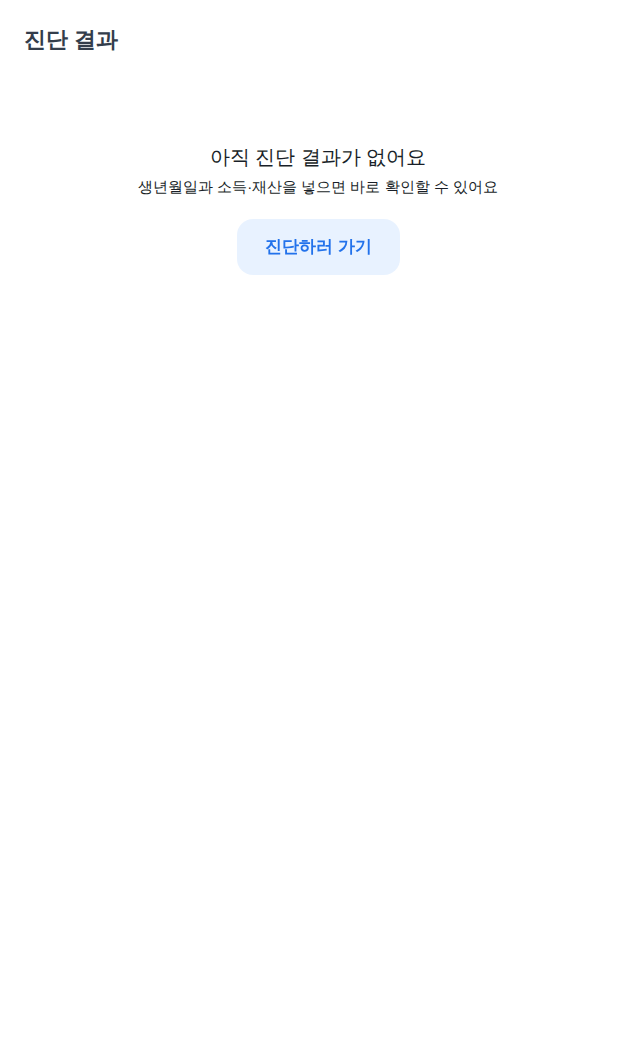
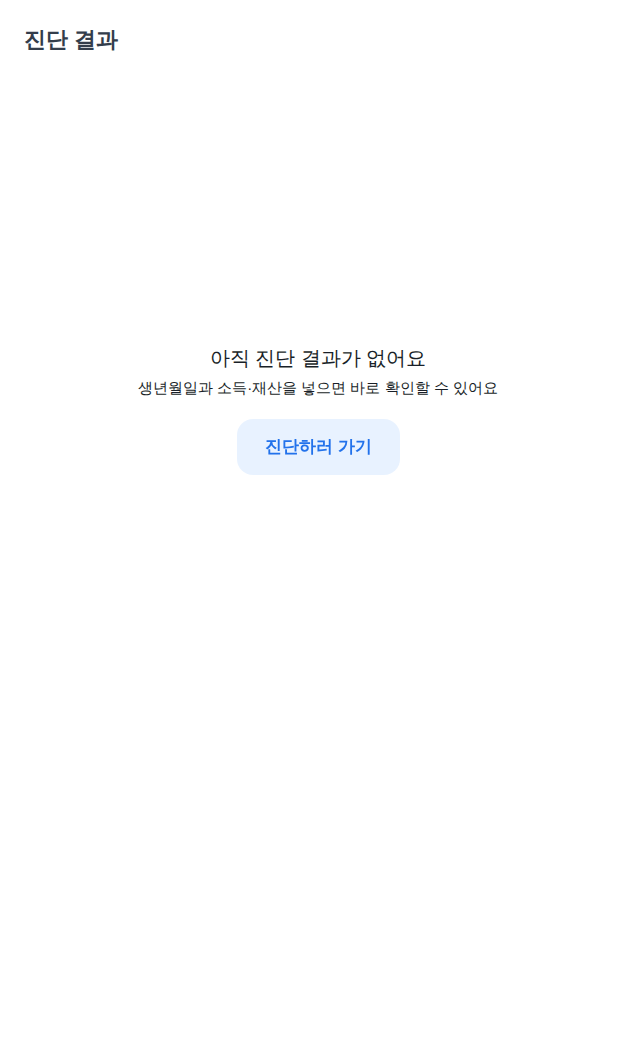
fix: visual UI improvements (round 2)

Changed region(s): [[0.2091, 0.3359, 0.7767, 0.458], [0.2091, 0.1221, 0.7767, 0.1832], [0.4182, 0.2137, 0.5975, 0.2443]]

diff --git a/src/pages/Result.tsx b/src/pages/Result.tsx
@@ -148,7 +148,7 @@ export default function Result() {
           title="아직 진단 결과가 없어요"
           description="생년월일과 소득·재산을 넣으면 바로 확인할 수 있어요"
           action={
-            <Button variant="weak" aria-label="진단하러 가기" onClick={goHome}>
+            <Button variant="weak" display="block" aria-label="진단하러 가기" onClick={goHome}>
               진단하러 가기
             </Button>
           }

diff --git a/src/pages/Home.tsx b/src/pages/Home.tsx
@@ -279,7 +279,7 @@ export default function Home() {
       <Spacing size={12} />
 
       {adGroupId ? <AdSlot adGroupId={adGroupId} /> : null}
-      <Spacing size={120} />
+      <Spacing size={168} />
       </div>
 
       <AlertDialog

diff --git a/src/components/StateView.tsx b/src/components/StateView.tsx
@@ -34,6 +34,7 @@ export function EmptyState({
         justifyContent: "center",
         minHeight: "60dvh",
         wordBreak: "keep-all",
+        textWrap: "balance",
         padding: "48px 24px",
       }}
     >
